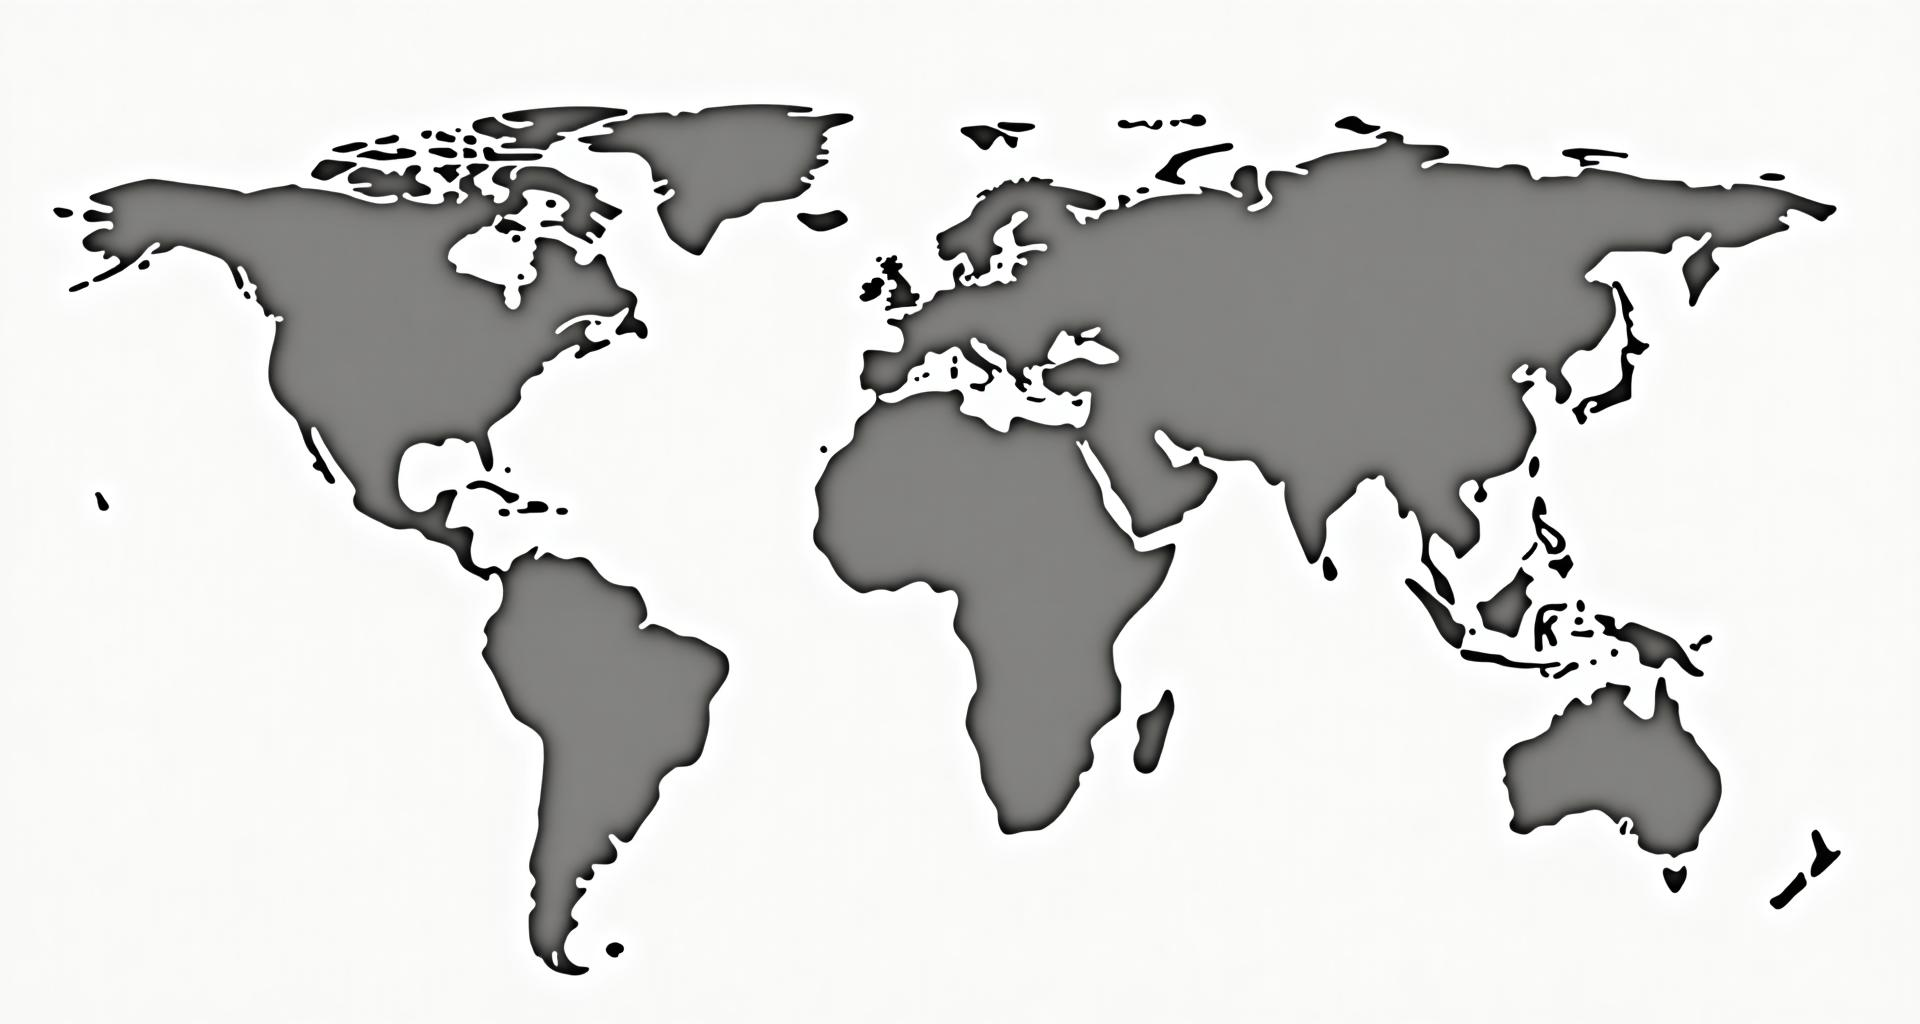
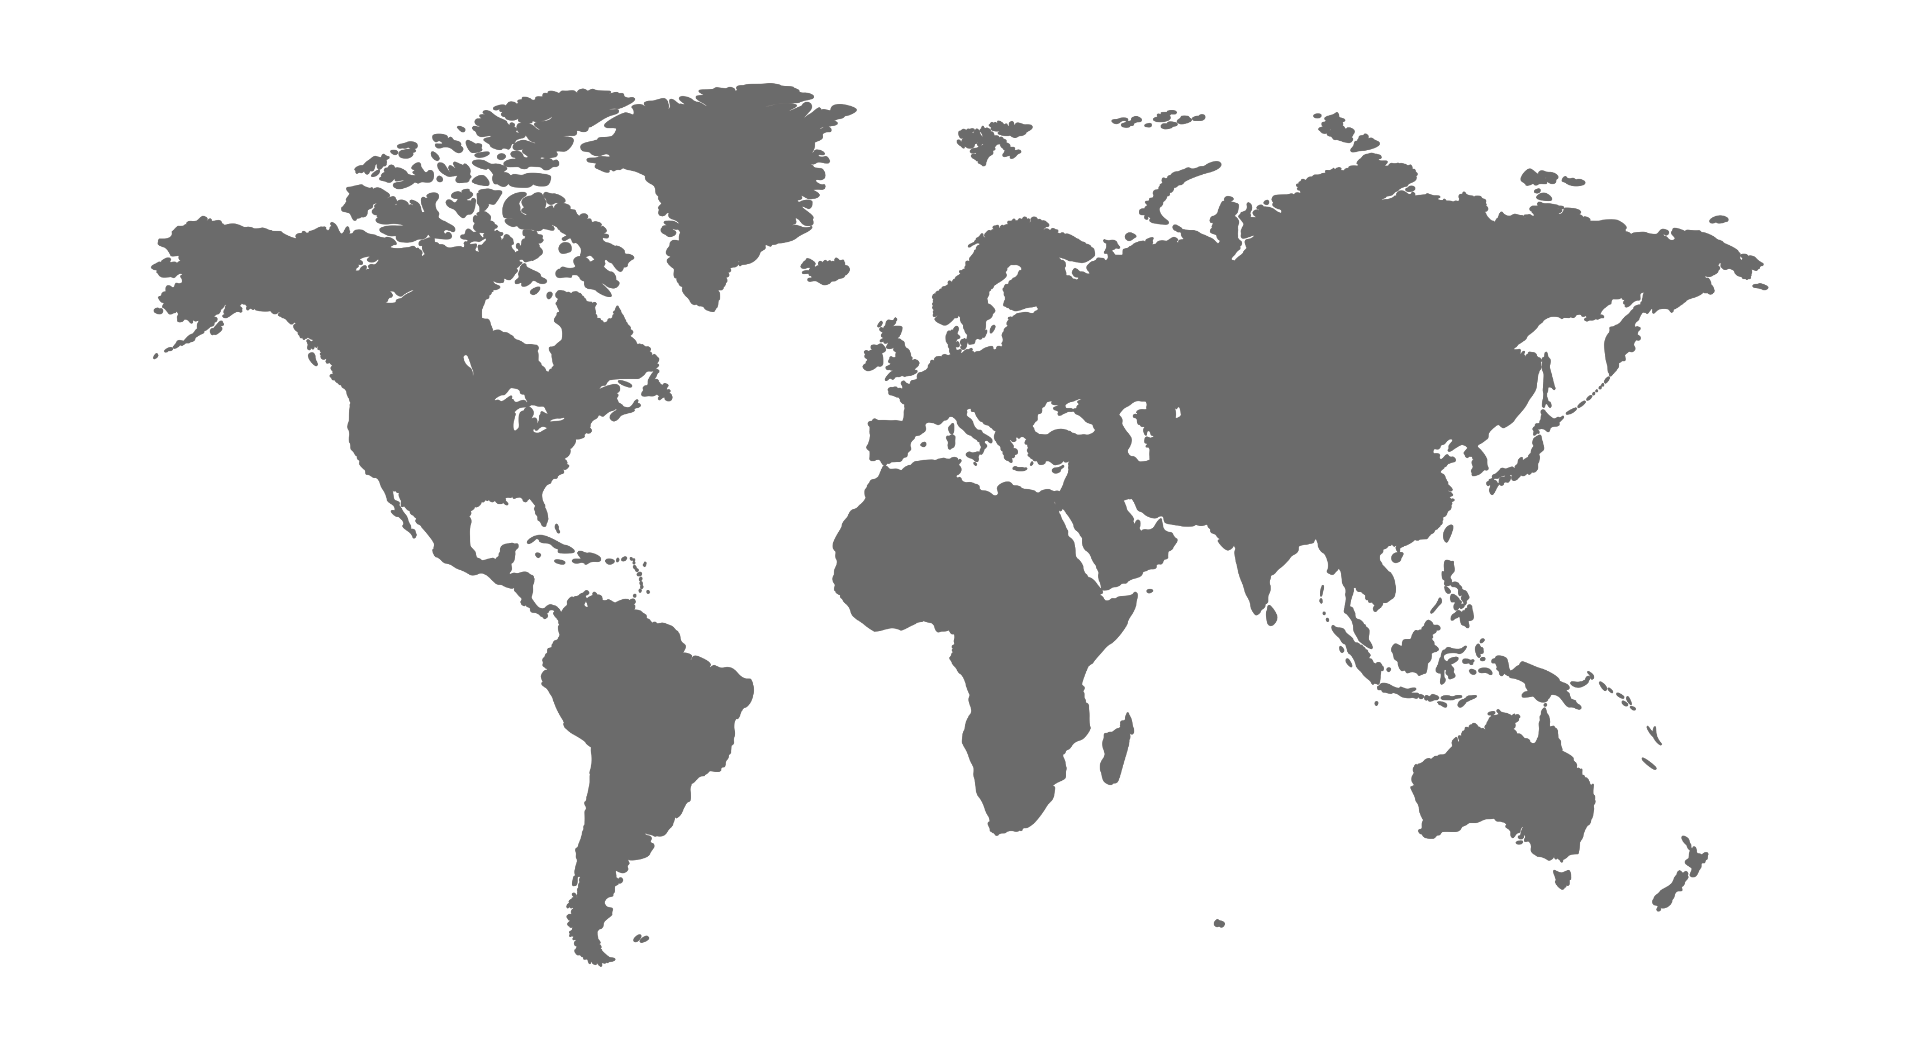
feat: Add world map with clickable pins

Changed region(s): [[0.0312, 0.0625, 0.9688, 0.9688], [0.9062, 0.8125, 0.9688, 0.9062], [0.4375, 0.5625, 0.5, 0.625]]

diff --git a/src/components/WorldMapWithPins.tsx b/src/components/WorldMapWithPins.tsx
@@ -13,33 +13,33 @@ interface Country {
 const countries: Country[] = [{
   name: 'Peru',
   nameKo: '페루',
-  x: 24,
+  x: 25,
   y: 58
 }, {
   name: 'Argentina',
   nameKo: '아르헨티나',
   x: 29,
-  y: 74
+  y: 75
 }, {
   name: 'Thailand',
   nameKo: '태국',
   x: 73,
-  y: 50
+  y: 48
 }, {
   name: 'Egypt',
   nameKo: '이집트',
   x: 54,
-  y: 42
+  y: 38
 }, {
   name: 'Panama',
   nameKo: '파나마',
-  x: 23,
-  y: 51
+  x: 24,
+  y: 49
 }, {
   name: 'Japan',
   nameKo: '일본',
-  x: 83,
-  y: 38
+  x: 84,
+  y: 36
 }];
 const WorldMapWithPins = () => {
   const [selectedCountry, setSelectedCountry] = useState<Country | null>(null);
@@ -91,13 +91,17 @@ const WorldMapWithPins = () => {
   return <>
       <div className="relative w-full h-full flex items-center justify-center">
         <div className="relative w-full max-w-6xl">
-          
+          <img 
+            src={worldMap} 
+            alt="World Map" 
+            className="w-full h-auto"
+          />
           
           {countries.map(country => <button key={country.name} onClick={() => handlePinClick(country)} className="absolute transform -translate-x-1/2 -translate-y-full hover:scale-125 transition-transform duration-200 focus:outline-none focus:ring-2 focus:ring-primary rounded-full" style={{
           left: `${country.x}%`,
           top: `${country.y}%`
         }} aria-label={`${country.nameKo} 선택`}>
-              <MapPin className="w-8 h-8 text-primary drop-shadow-lg" fill="currentColor" />
+              <MapPin className="w-8 h-8 text-red-500 drop-shadow-lg" fill="currentColor" />
             </button>)}
         </div>
       </div>
